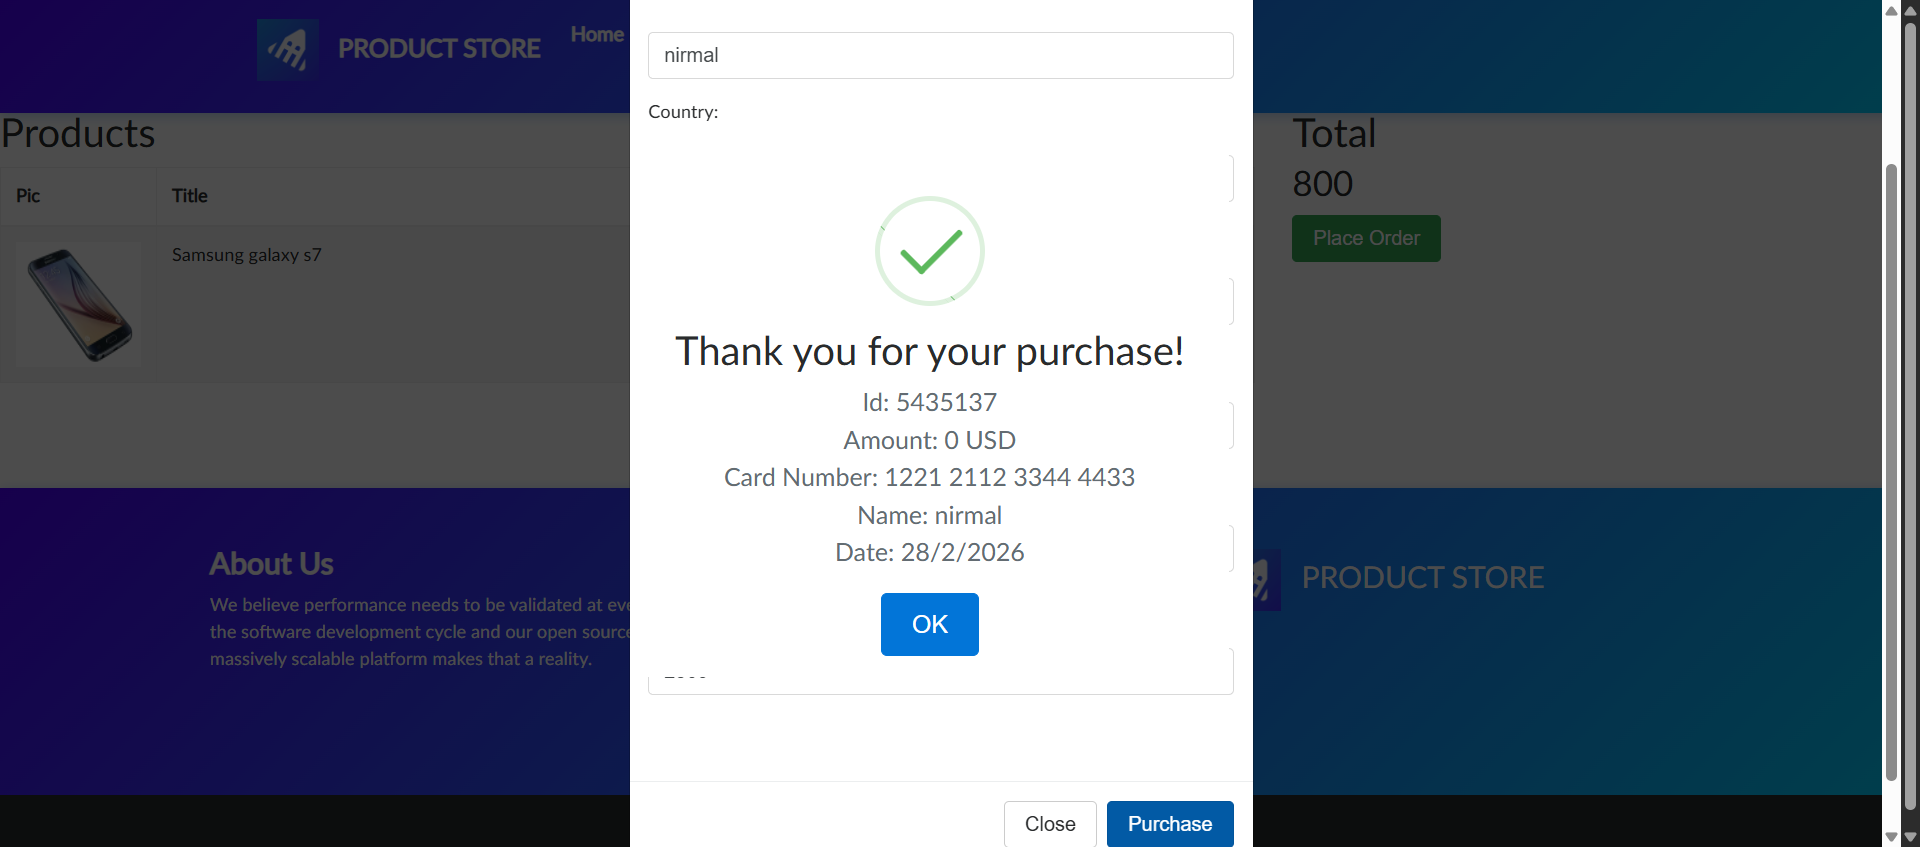
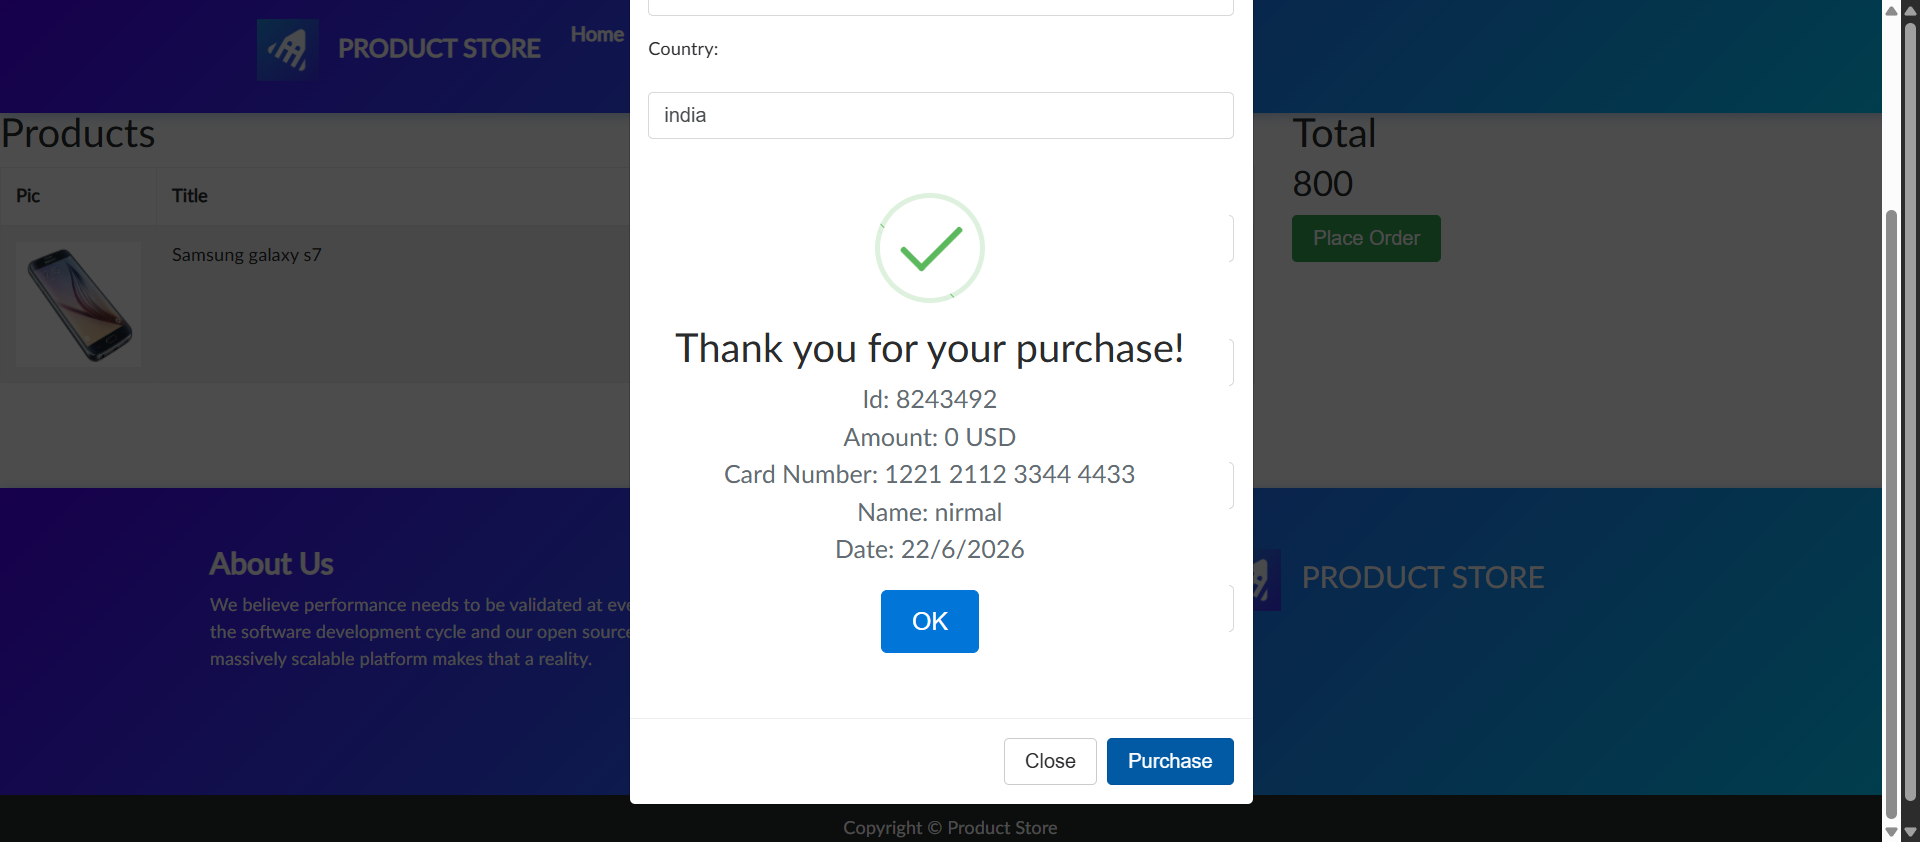
new build

diff --git a/src/main/java/com/utility/ReadExcel.java b/src/main/java/com/utility/ReadExcel.java
@@ -1,7 +1,9 @@
 package com.utility;
 
 import java.io.File;
+import java.io.IOException;
 
+import org.apache.poi.openxml4j.exceptions.InvalidFormatException;
 import org.apache.poi.ss.usermodel.Cell;
 import org.apache.poi.ss.usermodel.DataFormatter;
 import org.apache.poi.ss.usermodel.Row;
@@ -15,24 +17,26 @@ public class ReadExcel {
 	
 	public static String getExcel(int RowNum , int ColNum) {
 		String data=null;
-		try {
-			File file = new File("C:\\Users\\nirma\\OneDrive\\Desktop\\JAVA.xlsx");
+		
+			try {
+				File file = new File("C:\\Users\\nirma\\OneDrive\\Desktop\\JAVA.xlsx");
+				
+				Workbook book = new XSSFWorkbook(file);
+				
+				Sheet sheet = book.getSheet("Sheet1");
+				
+				Row row = sheet.getRow(RowNum);
+				
+				Cell cell = row.getCell(ColNum);
+				
+				data = cell.getStringCellValue();
+				
+				System.out.println(data);
+			} catch (Exception e) {
+				System.out.println(e);
+			} 
 			
-			Workbook book = new XSSFWorkbook(file);
 			
-			Sheet sheet = book.getSheet("Sheet1");
-			
-		    Row row = sheet.getRow(RowNum);
-		    
-		    Cell cell = row.getCell(ColNum);
-		    
-		    data = cell.getStringCellValue();
-		    
-		    System.out.println(data);
-			
-		} catch (Exception e) {
-			e.printStackTrace();
-		}	
 		return data;
 	}
 
